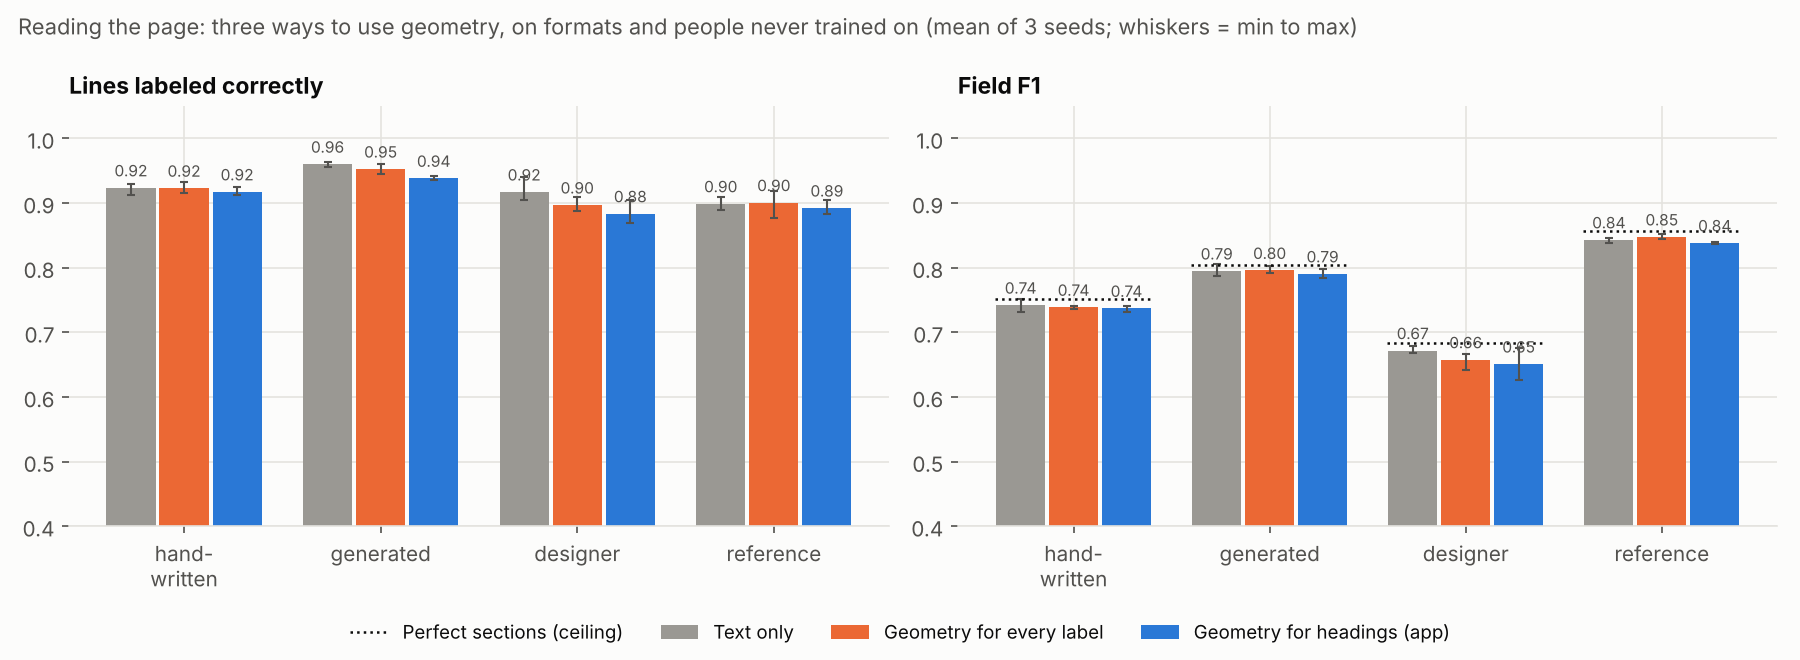
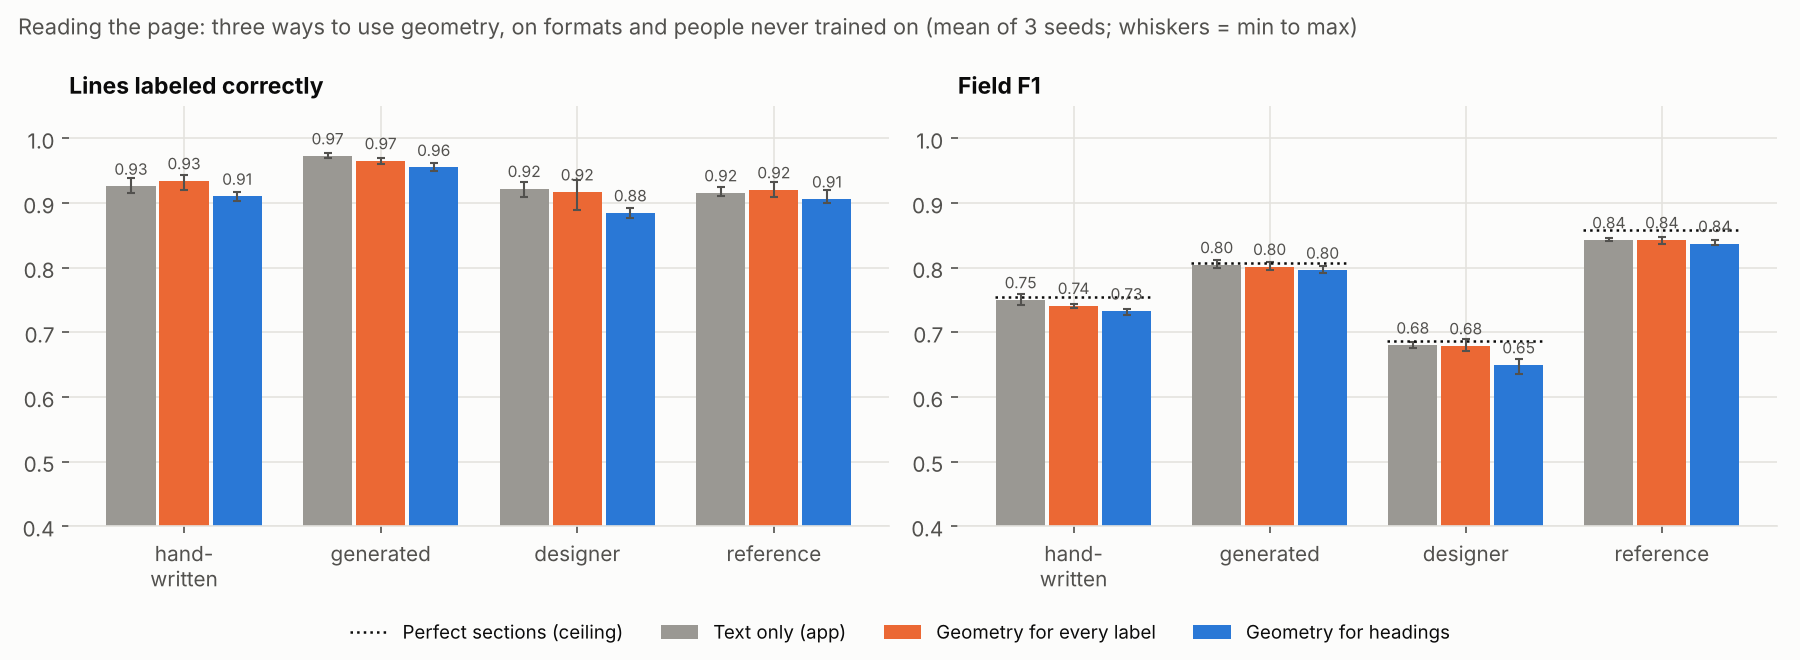
Rerun experiment 7 on the current reader; text-only network becomes the default (1.5.0)
Three seeds, wrapped lines joined, font-relative word gaps. Text only
matched or beat the headings hybrid on every synthetic group (field F1
0.006 to 0.03 higher) and in every seed on the hand-labeled real resume
(0.83 mean, against 0.81 and 0.69). The hybrid's earlier lead most likely
came from wrapped-line fragments the text network could not place.
store.tagger_mode() picks the mode (ATS_SIM_TAGGER still overrides).
README section 7 and release notes updated; version 1.5.0.

Claude-Session: https://claude.ai/code/session_01KBw3Ctbaec3tga4SsfR1MM

diff --git a/ats_sim/webapp/static/app.js b/ats_sim/webapp/static/app.js
@@ -936,8 +936,8 @@ async function renderResearch(main) {
   }
   if (S.geometry && S.geometry.groups) {
     const G = S.geometry.groups, GR = [["hand-written", "Hand-written"], ["generated", "Generated"], ["designer", "Designer"], ["reference", "Public templates"]].filter(([g]) => G[g]);
-    const M = [["text", "Text only"], ["geometry", "Geometry for every label"], ["headings", "Geometry for headings (app)"]];
-    cards.push(chartCard("Reading the page", "Lines labeled correctly on formats never trained on. On one real resume the app's version did best; see the README.",
+    const M = [["text", "Text only (app)"], ["geometry", "Geometry for every label"], ["headings", "Geometry for headings"]];
+    cards.push(chartCard("Reading the page", "Lines labeled correctly on formats never trained on. Text only, the app's version, matched or beat the others here and on one real resume; see the README.",
       barChart({ categories: GR.map((g) => g[1]), max: 1, ticks: [0, 0.25, 0.5, 0.75, 1], fmt: f2, label: "Line accuracy by use of page geometry",
         series: M.map(([m, name], i) => ({ name, color: ["var(--muted)", "var(--s2)", "var(--s1)"][i], values: GR.map(([g]) => ({ v: G[g][m].line_acc })) })) }), fig("geometry_ablation.png")));
   }

diff --git a/ats_sim/learn/store.py b/ats_sim/learn/store.py
@@ -26,6 +26,16 @@ def model_dir() -> Path:
     return Path(env) if env else user_dir() / "model"
 
 
+def tagger_mode() -> bool | str:
+    """How the app's network uses page geometry: ATS_SIM_TAGGER=text|geometry|headings.
+
+    Text only is the default since experiment 7 was rerun on joined lines: it
+    matched or beat the other two on every synthetic group and in every seed
+    on the hand-labeled real resume. (Before lines were joined, "headings" did
+    best on that resume and was the default.)"""
+    return {"geometry": True, "headings": "headings"}.get(os.environ.get("ATS_SIM_TAGGER", ""), False)
+
+
 # Bump when the starting model's training set changes, so cached starting
 # models are rebuilt. 2: added the 50 generated formats. 3: page geometry,
 # designer and reference formats. 4: wrapped lines joined into whole bullets. 5: font-relative word gaps.
@@ -67,10 +77,7 @@ class ModelStore:
         # corpus folder at the same time, and a half-written file is not a PDF yet.
         docs = list(documents(root=cache, cache=cache, **kw).values())
         docs += list(format_documents(formats, per_persona=per_persona, root=cache, cache=cache).values())
-        # ATS_SIM_TAGGER=text|geometry|headings picks how page geometry is used
-        # (experiment 7); the default, "headings", uses it to find headings only.
-        mode = {"text": False, "geometry": True}.get(os.environ.get("ATS_SIM_TAGGER", ""), "headings")
-        tg = T.LineTagger(use_geometry=mode).fit(docs)
+        tg = T.LineTagger(use_geometry=tagger_mode()).fit(docs)
         tg.corpus_version = CORPUS_VERSION
         T.save(tg, self.base_path)
         shutil.rmtree(self.dir / "corpus", ignore_errors=True)
@@ -87,7 +94,7 @@ class ModelStore:
         if path is None or not path.exists():
             return None
         tg = T.load(path)
-        wanted = {"text": False, "geometry": True}.get(os.environ.get("ATS_SIM_TAGGER", ""), "headings")
+        wanted = tagger_mode()
         if tg is None or getattr(tg, "corpus_version", 1) != CORPUS_VERSION or tg.use_geometry != wanted:
             return None
         self.dir.mkdir(parents=True, exist_ok=True)
@@ -99,7 +106,7 @@ class ModelStore:
             tg = T.load(self.current_path) if self.current_path.exists() else None
             if tg is None:
                 base = T.load(self.base_path) if self.base_path.exists() else None
-                wanted = {"text": False, "geometry": True}.get(os.environ.get("ATS_SIM_TAGGER", ""), "headings")
+                wanted = tagger_mode()
                 if (base is None or getattr(base, "corpus_version", 1) != CORPUS_VERSION
                         or base.use_geometry != wanted):
                     base = self._bundled_base() or self.build_base()

diff --git a/tests/test_learn.py b/tests/test_learn.py
@@ -156,10 +156,10 @@ def test_text_only_tagger_ignores_geometry(base):
 def test_store_uses_a_bundled_starting_model(tmp_path, monkeypatch):
     import sys
 
-    from ats_sim.learn.store import CORPUS_VERSION
+    from ats_sim.learn.store import CORPUS_VERSION, tagger_mode
 
     lines = ["Ana Ruiz", "ana@x.com", "EDUCATION", "B.S. in Biology"]
-    shipped = LineTagger().fit([(lines, ["name", "contact", "heading", "education"])], epochs=2)
+    shipped = LineTagger(use_geometry=tagger_mode()).fit([(lines, ["name", "contact", "heading", "education"])], epochs=2)
     shipped.corpus_version = CORPUS_VERSION
     save(shipped, tmp_path / "bundle" / "model" / "base.joblib")
     monkeypatch.setattr(sys, "_MEIPASS", str(tmp_path / "bundle"), raising=False)

diff --git a/scripts/geometry_ablation.py b/scripts/geometry_ablation.py
@@ -60,7 +60,7 @@ from ats_sim.render import HELD_OUT_TEMPLATES  # noqa: E402
 
 OUT = ROOT / "results" / "geometry"
 GROUPS = ("hand-written", "generated", "designer", "reference")
-MODELS = {"text": "Text only", "geometry": "Geometry for every label", "headings": "Geometry for headings (app)"}
+MODELS = {"text": "Text only (app)", "geometry": "Geometry for every label", "headings": "Geometry for headings"}
 SURFACE, INK, INK2, GRID = "#fcfcfb", "#0b0b0b", "#52514e", "#e4e3df"
 COLORS = {"text": "#9a9893", "geometry": "#eb6834", "headings": "#2a78d6"}
 

diff --git a/ats_sim/__init__.py b/ats_sim/__init__.py
@@ -1,2 +1,2 @@
 """ATS Simulator: how applicant tracking systems parse, screen and rank resumes."""
-__version__ = "1.4.0"
+__version__ = "1.5.0"

diff --git a/README.md b/README.md
@@ -382,13 +382,15 @@ Experiments 5 and 6 were run with the text-only network, before page geometry ex
 
 ![Geometry ablation](results/geometry/geometry_ablation.png)
 
-| Lines labeled correctly | Text only | Geometry for every label | Geometry for headings (app) |
+| Lines labeled correctly (mean of 3 seeds) | Text only (app) | Geometry for every label | Geometry for headings |
 |---|---|---|---|
-| Hand-written templates | 0.92 | 0.92 | 0.92 |
-| Held-out generated formats | 0.96 | 0.95 | 0.94 |
-| Held-out designer formats | 0.92 | 0.90 | 0.88 |
-| Reference formats (public templates) | 0.90 | 0.90 | 0.89 |
-| One real resume, hand-labeled (see below) | 0.71 | 0.58 | 0.79 |
+| Hand-written templates | 0.93 | 0.94 | 0.91 |
+| Held-out generated formats | 0.97 | 0.97 | 0.96 |
+| Held-out designer formats | 0.92 | 0.92 | 0.89 |
+| Reference formats (public templates) | 0.92 | 0.92 | 0.91 |
+| One real resume, hand-labeled (see below) | **0.83** | 0.69 | 0.81 |
+
+These are from the rerun on the current reader (wrapped lines joined, font-relative word gaps). Field F1 tells the same story: text only is best or tied in every group (0.68 to 0.84), the headings version 0.006 to 0.03 lower.
 
 **What happened, in order.** The order matters more than the final table:
 
@@ -396,14 +398,14 @@ Experiments 5 and 6 were run with the text-only network, before page geometry ex
 2. **On a real resume it was much worse.** It got 0.52 of lines right, against 0.69 for text only (three seeds), on a hand-labeled two-page student resume (the author's own, kept out of the repository). Every line it got wrong was on page 2. All synthetic resumes are one page, so the page-number feature never varied in training, kept its random starting weights, and pushed every page-2 line toward "experience".
 3. **Fix:** remove page number and height on the page, and train on a second, randomly perturbed copy of each resume's geometry. This closed most of the gap on the real resume but erased the synthetic gains (the table's middle column). In other words, much of the early gain was the network recognizing this project's own renderer.
 4. **The remaining real-resume errors were a layout shortcut.** In synthetic resumes an indented bullet line in the body is almost always experience, so the publications list was filed under experience regardless of its heading.
-5. **Final design:** the text network assigns sections and a small geometry network only finds headings and the name; their heading and name probabilities are averaged. On synthetic formats it is 1 to 3 points below text only. On the real resume it is the best of the three in every seed (0.69 to 0.86).
-
-These numbers were measured before wrapped lines were joined (v1.3.1) and before the word-gap fix (experiment 8). A one-seed rerun with joined lines moved field F1 by at most 0.016 in any group for the app's version, within the spread between seeds, and raised every version's line accuracy on the real resume (headings 0.69 to 0.77).
+5. **The hybrid design:** the text network assigns sections and a small geometry network only finds headings and the name; their heading and name probabilities are averaged. On synthetic formats it was 1 to 3 points below text only, but on the real resume it was the best of the three in every seed (0.69 to 0.86), so it became the app's default.
+6. **Joining wrapped lines changed the answer.** After the reader joined wrapped bullets back together (v1.3.1) and stopped gluing words in tightly set text (experiment 8), the experiment was rerun. On the real resume, text only went from 0.71 to 0.83 and matched or beat the hybrid in every seed (0.81 to 0.85, against 0.76 to 0.85); on every synthetic group it was best or tied. The likely reason: the hybrid's advantage came from lines the text network could not label alone: the second half of a wrapped bullet ("users", "backend") has no section words in it. Once those halves were joined to their bullets, the extra network no longer helped. The app now uses text only.
 
 **What to take from it.**
 
 - A model evaluated only on synthetic data would have shipped the worst of the three versions. Geometry measured on documents from one renderer partly learns that renderer.
-- The app uses the hybrid because it is the only version that held up on a real document. That rests on one resume, which was also used to find the bugs above, so it is weak evidence. Set `ATS_SIM_TAGGER=text` to use the text-only network instead; whichever version runs, corrections in the Teach tab adapt it.
+- Fixing what the network reads mattered more than giving it more to read: joining wrapped lines improved the real resume by 12 points, more than any use of geometry did.
+- The app uses text only. That choice rests on one real resume, which was also used to find the bugs above, so it is weak evidence; the synthetic results agree with it. Set `ATS_SIM_TAGGER=headings` (or `geometry`) to use another version; whichever runs, corrections in the Teach tab adapt it. Page geometry is still measured, and still used for joining lines and by the visual check.
 - On the reference formats the heading-list parser is nearly as good (field F1 0.82, against 0.84 for the networks and a ceiling of 0.86). Real templates mostly use headings the list already knows. The networks matter most for designer formats and unusual headings (0.51 to 0.67).
 
 ### 8. Reading the page as an image: OCR vs small vision-language models
@@ -447,7 +449,7 @@ The report (written to `private/`, which is gitignored) shows what each parser e
 - **Scores are not decisions.** Real outcomes depend on recruiters, referrals and timing. Nothing here estimates anyone's chance of getting an interview.
 - **The visual check reads PDFs only.** A Word file has no fixed page to render. OCR misreads some characters, so differences shorter than a dozen letters are ignored, and text in a low-contrast image may be missed.
 - **Scanned resumes are parsed only from OCR text**, with one cleanup (an "@" set apart by OCR is joined back). The *With OCR* column shows what such a system might read; real OCR pipelines differ.
-- **Geometry is validated on one real resume.** Every other test is synthetic, and experiment 7 shows synthetic tests can reward a model for recognizing this project's renderer. A set of consented, hand-labeled real resumes is the missing piece; *Export labels* exists to collect one.
+- **The choice of network rests on one real resume.** Every other test is synthetic, and experiment 7 shows synthetic tests can reward a model for recognizing this project's renderer. A set of consented, hand-labeled real resumes is the missing piece; *Export labels* exists to collect one.
 - **The learned parser is only as good as its corrections.** It learns section boundaries, not fields; a wrong label taught by a user is learned too (Reset undoes everything). Its experiment uses exact synthetic labels and four templates.
 - **Knockout source is a modeling choice.** Knockout flips assume the candidate accepted a parse-prefilled form. If candidates type their answers, layout cannot affect knockouts at all.
 

diff --git a/packaging/RELEASE_NOTES.md b/packaging/RELEASE_NOTES.md
@@ -21,7 +21,7 @@ The first launch takes about 20 seconds. The app opens in its own window on Wind
 - **Export labels.** In *Teach the model*, save a resume's lines and your corrected labels to a file, with your name, email, phone and links replaced by placeholders. Nothing is sent: you choose whether to share it, for example to help test the parser on real resumes.
 - **Optional update check.** Turn it on in About and the app tells you when a newer version is out. It is off by default; when on, it asks GitHub for the latest version number and sends nothing else.
 - **An Intel Mac build**, alongside Apple Silicon.
-- **Experiment 7 rerun** on the current reader (joined wrapped lines, font-relative word gaps). RESULTS_PLACEHOLDER
+- **The learned parser now reads text only.** Experiment 7 was rerun on the current reader (joined wrapped lines, font-relative word gaps). The text-only network matched or beat the version that also used page layout in every test group and on a real resume (0.83 of its lines right, against 0.81), so it is now the default. Page layout is still used to join wrapped lines and in the visual check.
 - A slightly smaller download (the OCR image library without a GUI toolkit), and an automated browser test that clicks through the app on every change.
 
 ### What the app does
